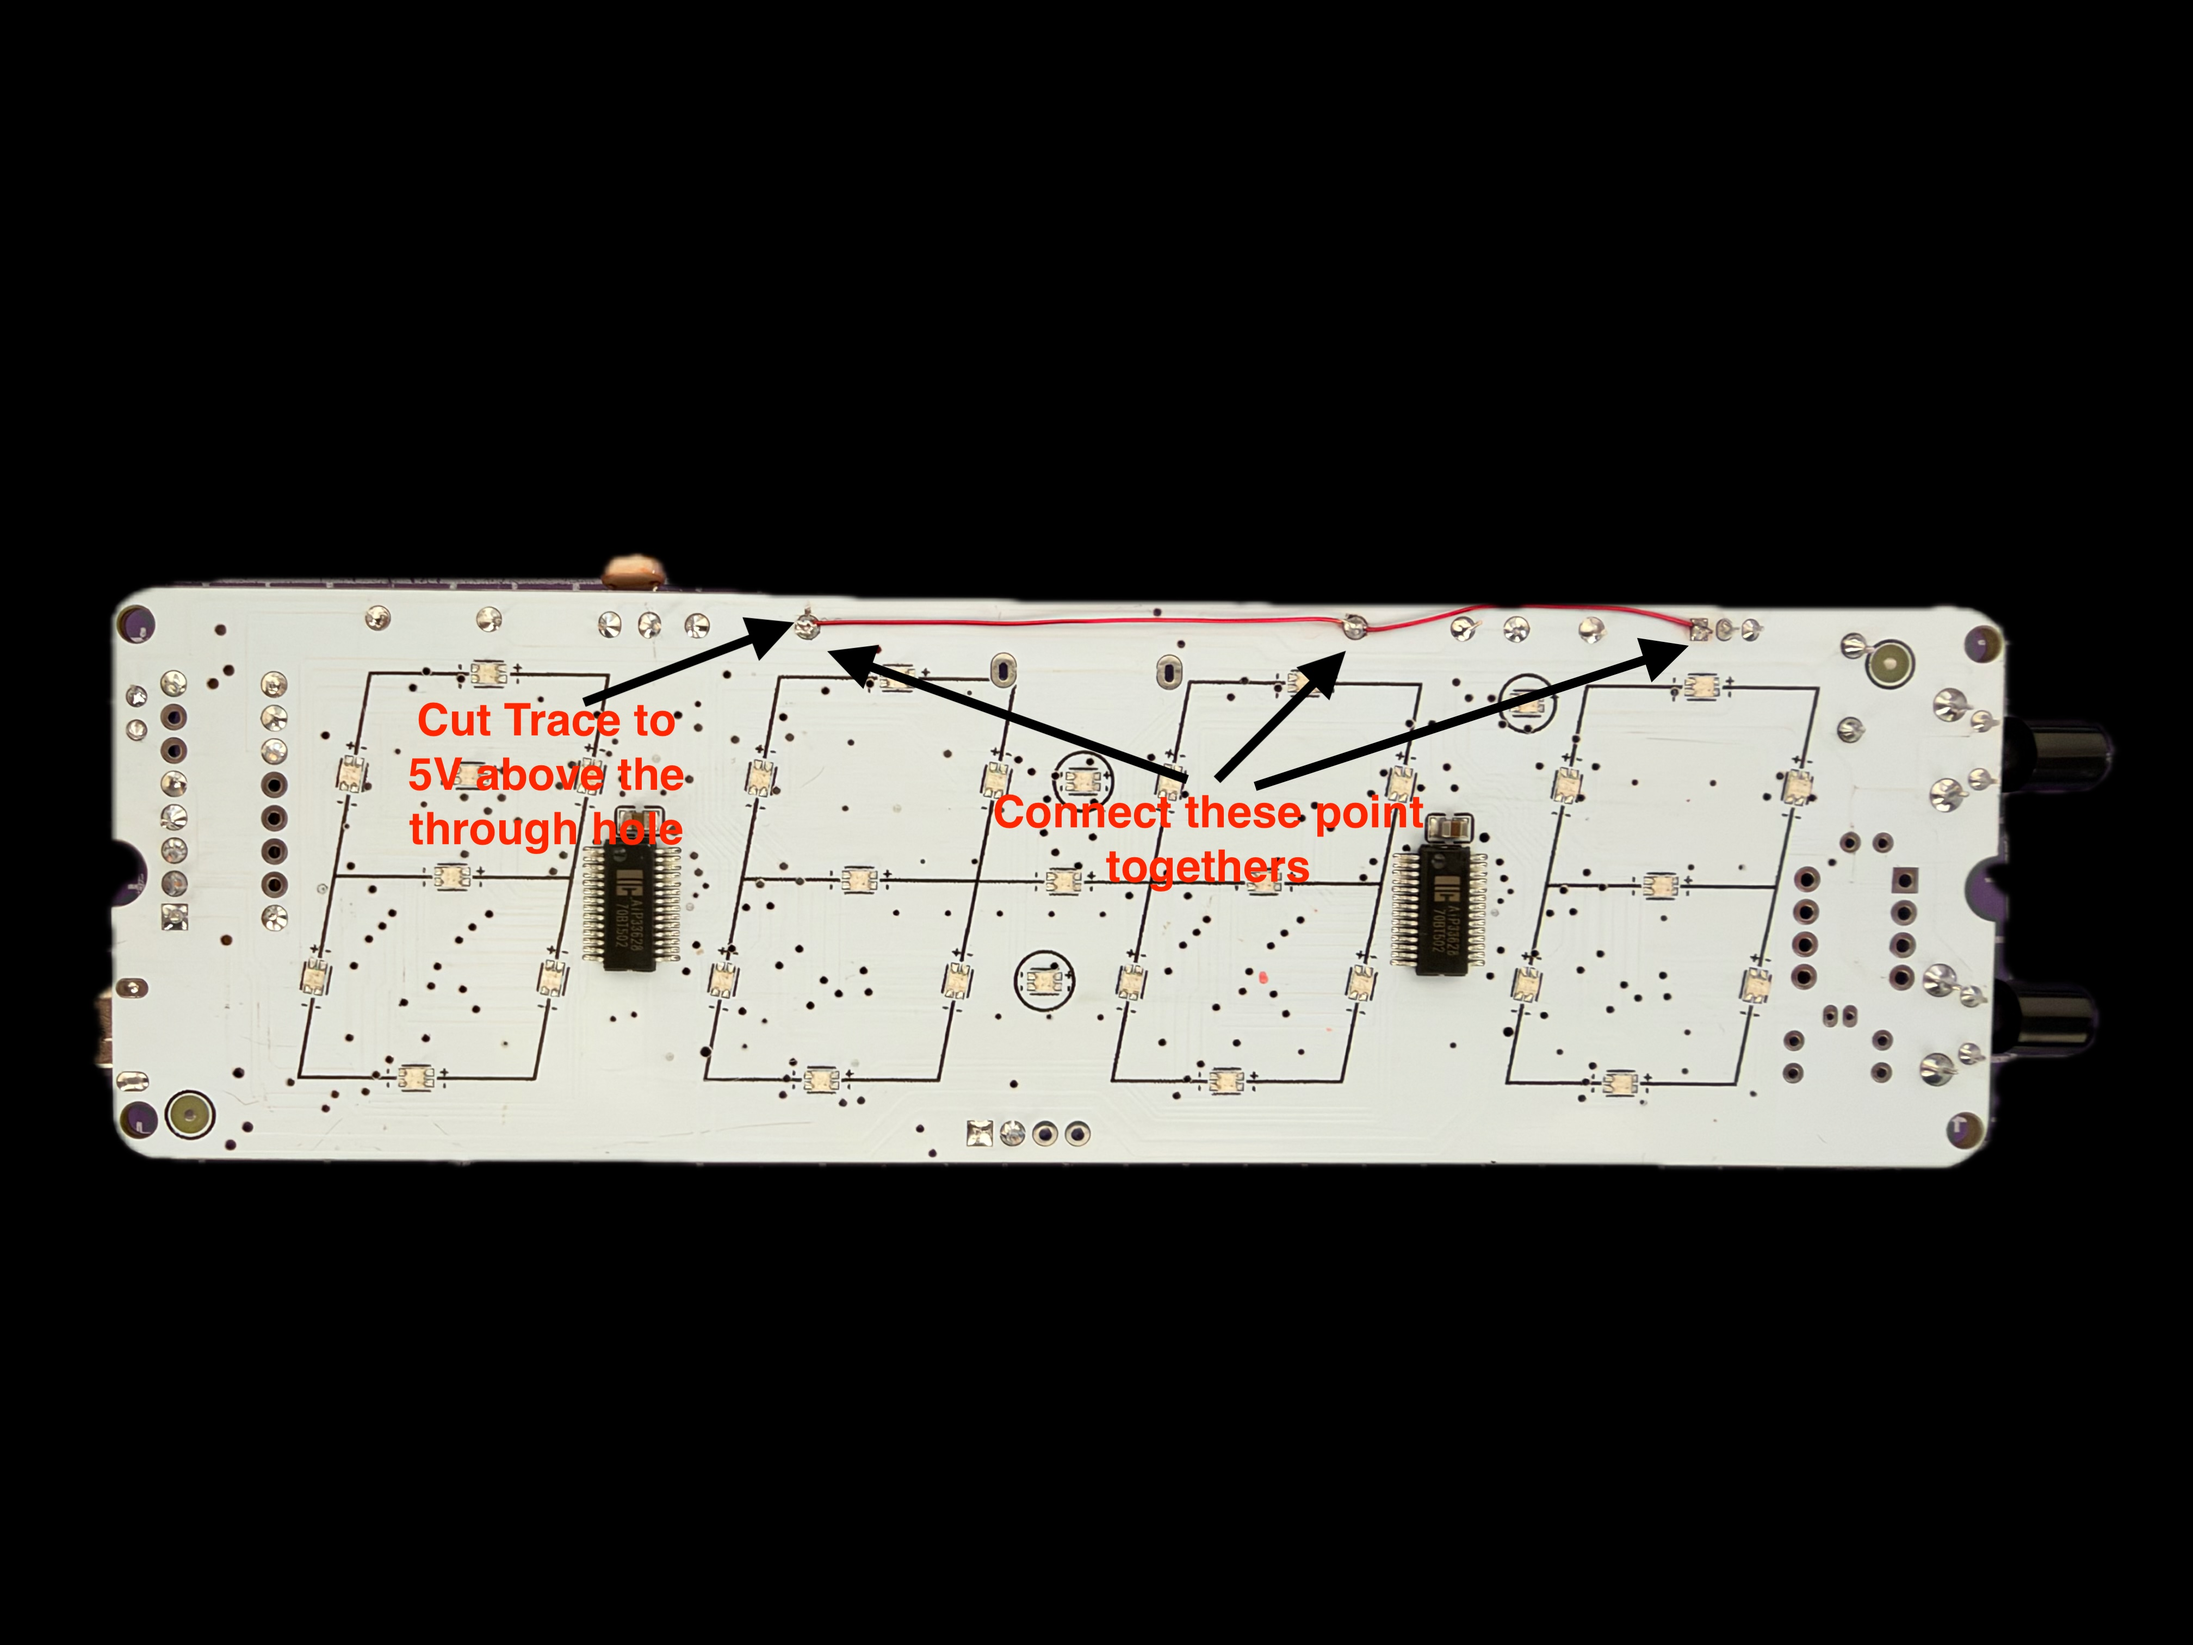
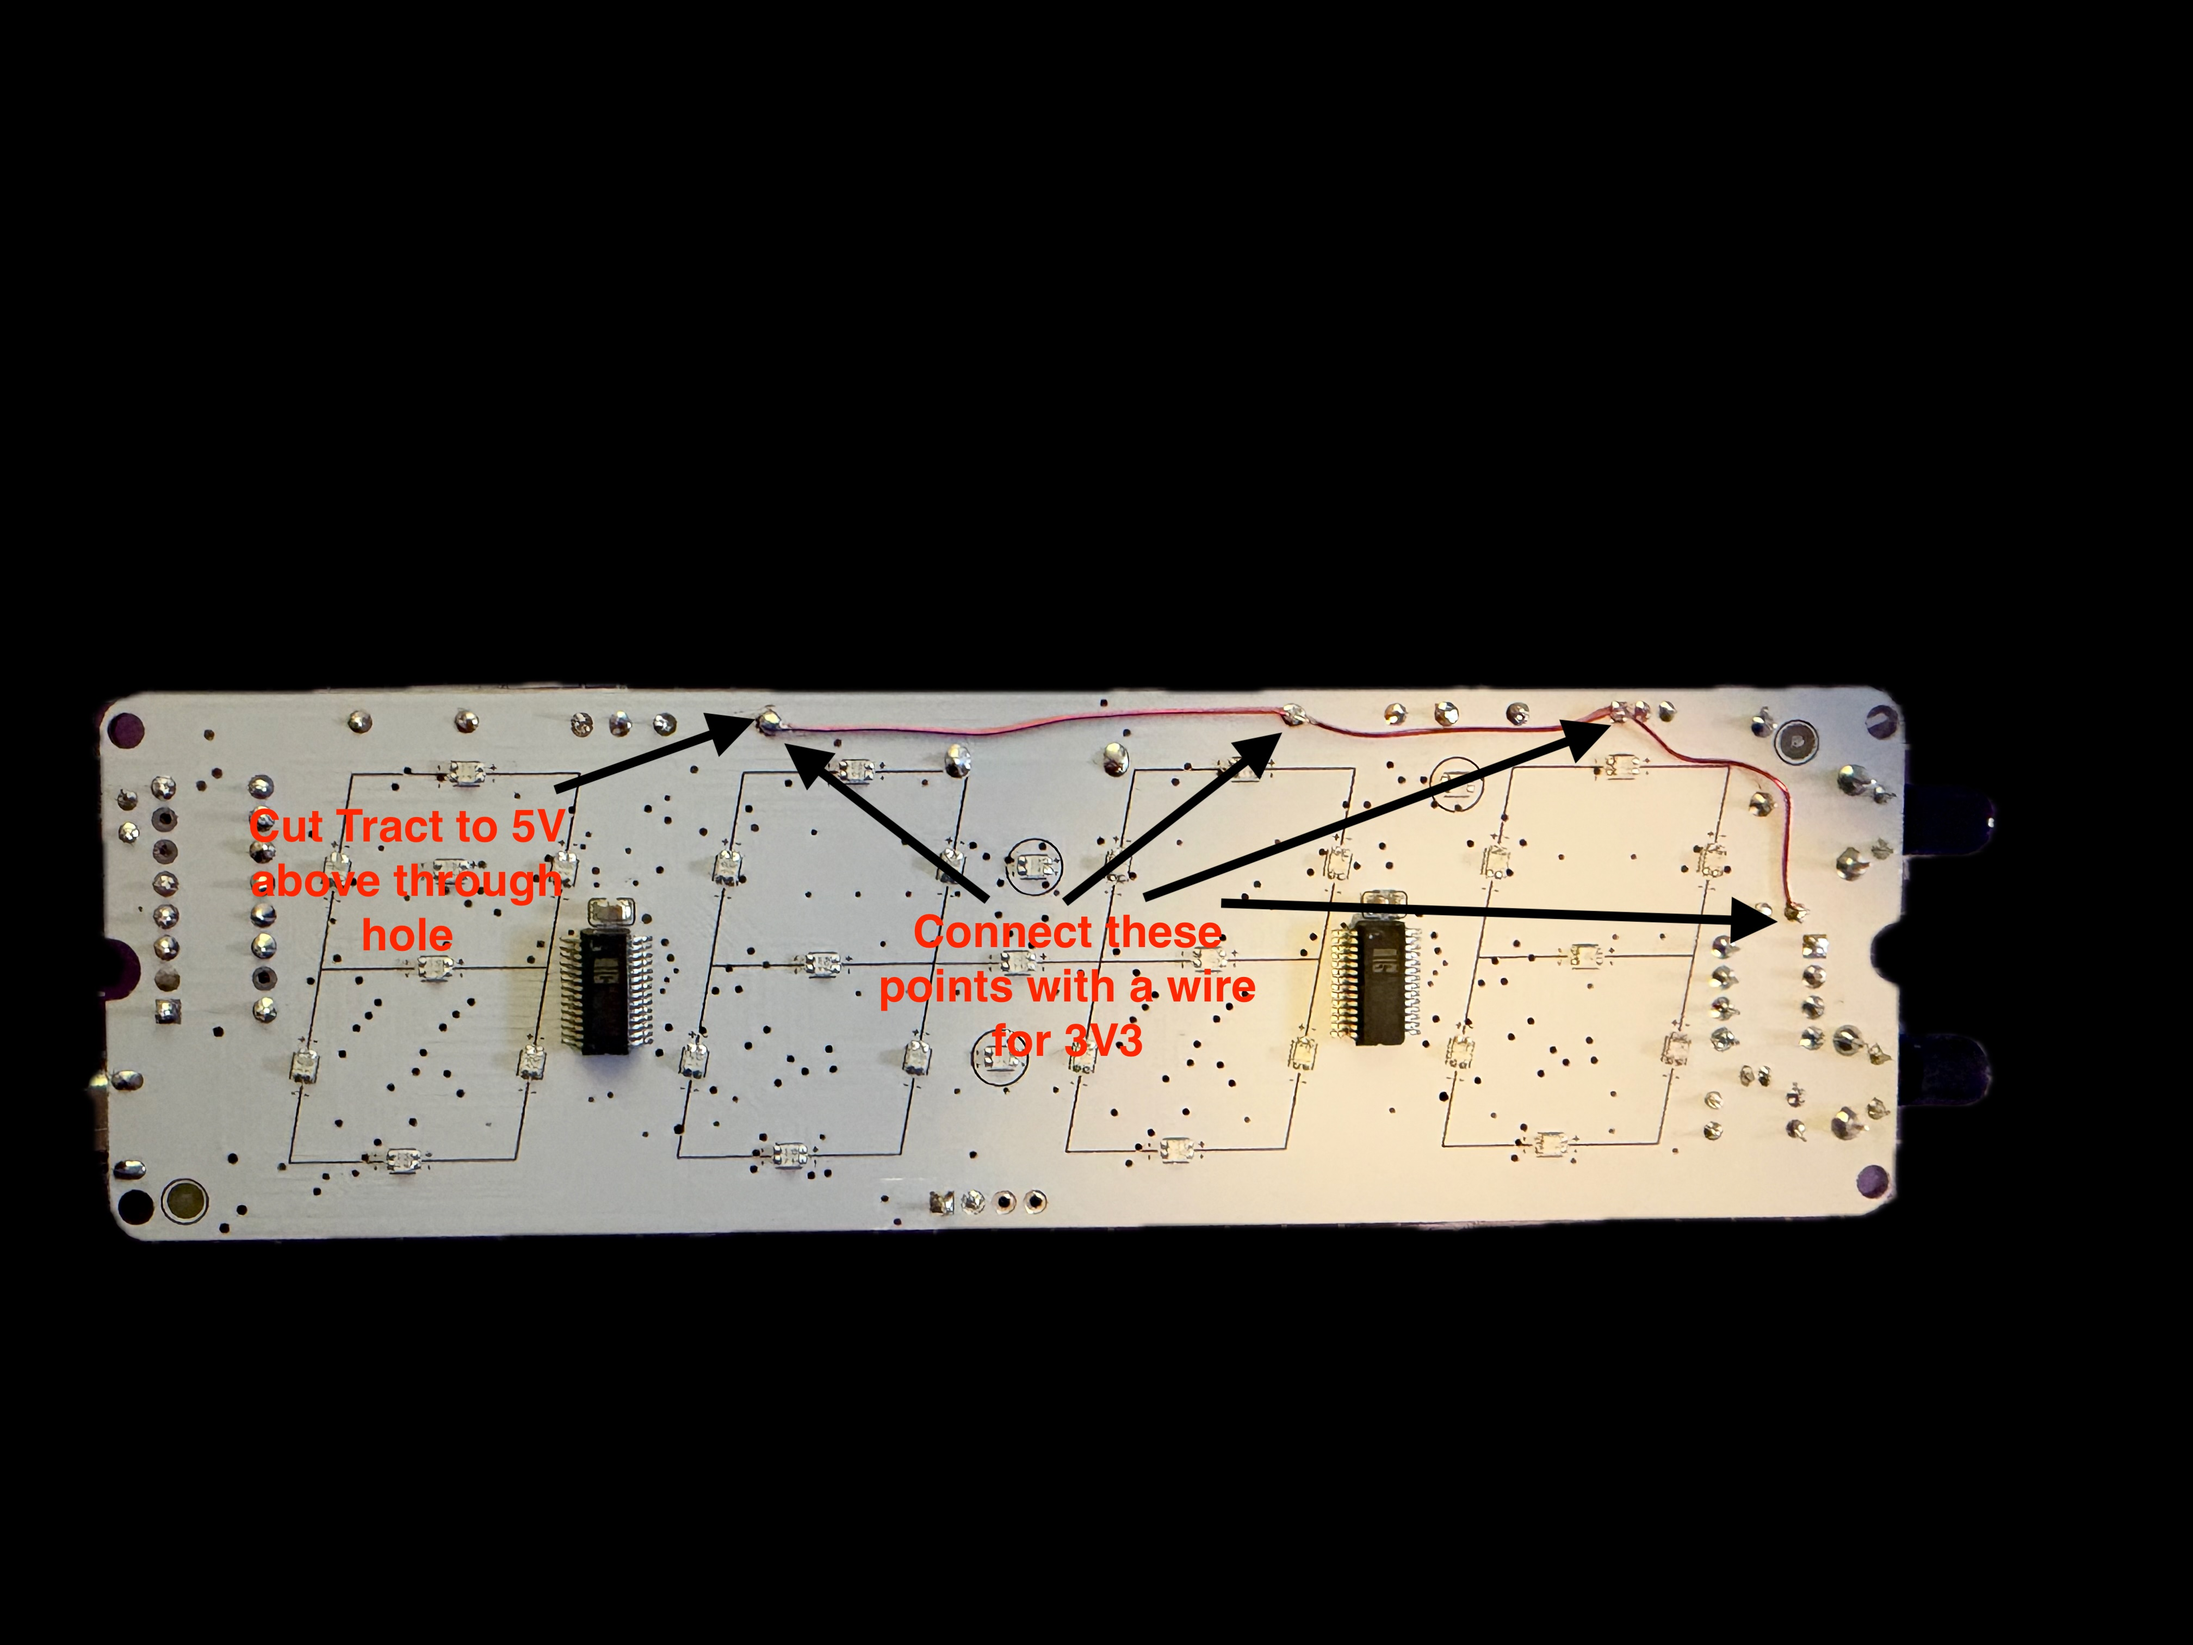
Add DS1302 health status and update RTC wiring photos

Changed region(s): [[0.0312, 0.3419, 0.9688, 0.7771]]

diff --git a/firmware/standalone/components/clock_admin/ds1302.h b/firmware/standalone/components/clock_admin/ds1302.h
@@ -1,6 +1,8 @@
 #pragma once
 
 #include <array>
+#include <cstdio>
+#include <string>
 #include <optional>
 #include <sys/time.h>
 
@@ -128,6 +130,34 @@ inline std::optional<time_t> read_epoch() {
   utc.second = second;
   utc.recalc_timestamp_utc(false);
   return utc.timestamp;
+}
+
+inline std::string health_status() {
+  static std::optional<time_t> previous;
+  if (!ready || read_register(WRITE_PROTECT) != 0x80) {
+    previous.reset();
+    return "RTC not responding";
+  }
+  if (read_register(VALIDITY_RAM) != TIME_INITIALIZED) {
+    previous.reset();
+    return "RTC needs a manual time setting or network sync";
+  }
+  const auto epoch = read_epoch();
+  if (!epoch.has_value()) {
+    previous.reset();
+    return "RTC stopped or returned an invalid date";
+  }
+
+  const char *state = !previous ? "Checking" : *epoch == *previous ? "Not advancing" :
+                      *epoch < *previous ? "Time moved backward" : "Advancing";
+  previous = epoch;
+  const auto utc = ESPTime::from_epoch_utc(*epoch);
+  const auto system_epoch = ::time(nullptr);
+  char status[112];
+  snprintf(status, sizeof(status), "%s | %04u-%02u-%02u %02u:%02u:%02u UTC | %+lld s vs clock",
+           state, utc.year, utc.month, utc.day_of_month, utc.hour, utc.minute, utc.second,
+           static_cast<long long>(*epoch - system_epoch));
+  return status;
 }
 
 inline void write_epoch(time_t epoch) {

diff --git a/firmware/standalone/README.md b/firmware/standalone/README.md
@@ -21,25 +21,25 @@ Use the existing ESP32 conversion wiring. For a stock kit, follow the [upstream 
 | DS1302 data | GPIO26 | DS1302 pin 6 (I/O) via Original MCU socket pin 13 |
 | DS1302 serial clock | GPIO23 | DS1302 pin 7 (SCLK) via Original MCU socket pin 12 |
 | Common ground | GND | Original MCU socket pin 8 and DS1302 pin 4 |
-| Sensor and buzzer supply | 3V3 | Rewired supply pads for the two divider pull-ups and S8550 emitter circuit |
+| Sensor, buzzer, and RTC supply | 3V3 | Rewired feeds for both dividers, the S8550 circuit, and DS1302 VCC2 |
 
-### Move the three circuits to 3.3 V
+### Move the sensors, buzzer, and DS1302 to 3.3 V
 
 Disconnect power before cutting or soldering. These annotated photos show the cuts and jumpers for the board pictured. Verify the traces on your board if its layout differs.
 
-1. **Side A (display side).** Cut the 5 V trace just above the marked through-hole. Join all three marked through-hole pads with insulated jumper wire, as shown in red.
+1. **Side A (display side).** Cut the 5 V trace just above the marked through-hole. Join all four marked through-hole pads with insulated jumper wire, as shown in red.
 
-   ![Side A showing one 5 V trace cut and the red jumper linking three pads](images/3v3-conversion-side-a.jpg)
+   ![Side A showing one 5 V trace cut and the red jumper linking four pads, including the DS1302 supply feed](images/3v3-conversion-side-a.jpg)
 
-2. **Side B (component side).** Cut the two 5 V traces marked above the through-holes near Q1 and R2. Connect the ESP32 **3V3** pin to the marked supply pad at the buzzer transistor, as shown in blue. Together with the Side A jumpers, this feeds the buzzer, thermistor, and light sensor from 3.3 V.
+2. **Side B (component side).** Cut the three marked 5 V traces near Q1, R2, and C4 by the DS1302 footprint. Connect the ESP32 **3V3** pin to the marked supply pad at the buzzer transistor, as shown in blue. Together with the Side A jumpers, this feeds the buzzer, thermistor, light sensor, and DS1302 VCC2 (pin 1) from 3.3 V.
 
-   ![Side B showing two 5 V trace cuts and the blue jumper from ESP32 3V3 to the buzzer transistor](images/3v3-conversion-side-b.jpeg)
+   ![Side B showing three 5 V trace cuts and the blue jumper from ESP32 3V3 to the buzzer transistor](images/3v3-conversion-side-b.jpeg)
 
 - **Buzzer:** Feed the S8550 emitter and its base pull-up from **3.3 V**. GPIO25 controls the base through the existing base resistor at socket pin 11.
 - **Thermistor:** Feed the supply side of the fixed 10 kΩ divider resistor from **3.3 V**. Socket pin 3 is the divider signal for GPIO34.
 - **Light sensor:** Feed the supply side of the fixed 10 kΩ divider resistor from **3.3 V**. Socket pin 4 is the divider signal for GPIO35.
 
-Trace the connections on your board before cutting. Cut only the feeds to these three circuits and keep the display’s 5 V supply intact. With the ESP32 GPIO leads disconnected, verify the rewired supply pads read about 3.3 V and both sensor signal nodes stay within 0–3.3 V relative to common ground. Power off before attaching the GPIO leads.
+Trace the connections on your board before cutting. Cut only the marked 5 V feeds and keep the display’s 5 V supply intact. With the ESP32 GPIO leads disconnected, verify the rewired supply pads read about 3.3 V and both sensor signal nodes stay within 0–3.3 V relative to common ground. Power off before attaching the GPIO leads.
 
 ## DS1302 battery-backed clock
 
@@ -59,6 +59,8 @@ For a bare 8-pin DS1302, identify pin 1 from the package marking and wire it as 
 The firmware disables the DS1302 trickle charger. Keep the main RTC supply and GPIO signals at 3.3 V. If reusing a clock PCB’s RTC footprint, verify its supply and signal traces before connecting the ESP32. The coin cell powers the RTC only. [DS1302 datasheet](../../reference/ds1302-datasheet.pdf)
 
 Set the time once through setup or Administration, or let the clock sync over Wi-Fi. These operations write UTC to the RTC. On boot the firmware reads the RTC, then applies the clock’s timezone. To test backup, disconnect the clock’s main power for a few minutes, leave the coin cell installed, and restart without home Wi-Fi. The display should show the elapsed time. A factory reset invalidates the saved RTC time. Set or sync the time again afterward.
+
+In **Controls → Real-Time Clock**, **DS1302 Status** updates every five seconds. It reports whether the RTC is responding and advancing, its current UTC timestamp, and the signed difference from the ESP32 clock. The RTC cannot report battery voltage over its serial interface. To verify backup power, use the power-disconnect test above.
 
 ## Build and flash
 
